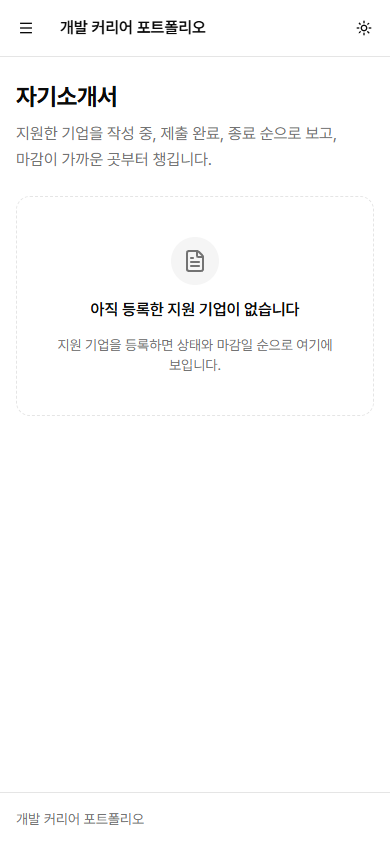
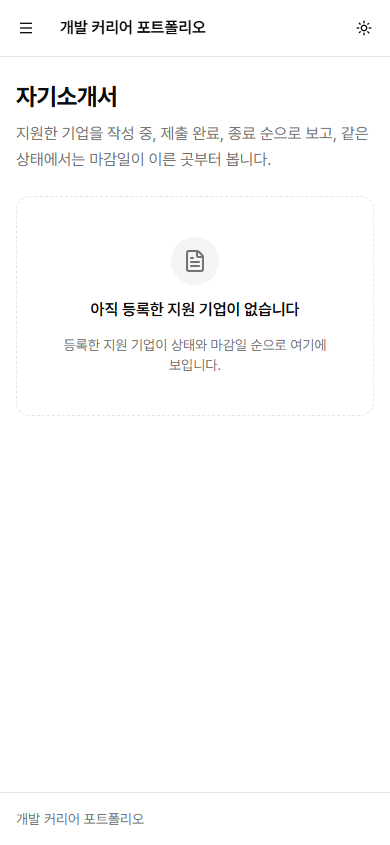
fix: 지원 기업 목록 안내 문구와 빈 줄 테스트 보강 (#48)
- 왜: 설명이 실제 순서와 다르고, 빈 목록 안내가 아직 없는 등록 기능을 가리키며, 직무 없음 테스트가 비어 있었음(1차 리뷰)
- 변경: 설명·빈 목록 문구 수정, 직무·링크·메모 없는 항목의 줄 확인, 사진 다시 찍음

Changed region(s): [[0.1538, 0.4, 0.8615, 0.4308], [0.0308, 0.1538, 0.6769, 0.2154], [0.8615, 0.1538, 0.9231, 0.1846]]

diff --git a/frontend/src/applications.tsx b/frontend/src/applications.tsx
@@ -65,7 +65,7 @@ export function ApplicationList() {
     <section aria-labelledby="page-title" aria-busy={loading} className="flex flex-col gap-6">
       <PageHeader
         title="자기소개서"
-        description="지원한 기업을 작성 중, 제출 완료, 종료 순으로 보고, 마감이 가까운 곳부터 챙깁니다."
+        description="지원한 기업을 작성 중, 제출 완료, 종료 순으로 보고, 같은 상태에서는 마감일이 이른 곳부터 봅니다."
       >
         {/* Always mounted, so screen readers hear the text change from loading to the count. */}
         <p role="status" className="sr-only">
@@ -88,7 +88,7 @@ export function ApplicationList() {
           className="break-keep"
           icon={<FileText />}
           title="아직 등록한 지원 기업이 없습니다"
-          description="지원 기업을 등록하면 상태와 마감일 순으로 여기에 보입니다."
+          description="등록한 지원 기업이 상태와 마감일 순으로 여기에 보입니다."
         />
       ) : null}
       {applications.length > 0 ? (

diff --git a/frontend/src/applications.test.tsx b/frontend/src/applications.test.tsx
@@ -110,9 +110,12 @@ test('the posting link opens in a new tab and names its company', async () => {
   expect(link).toHaveAttribute('href', 'https://careers.example.com/jobs/12');
   expect(link).toHaveAttribute('target', '_blank');
   expect(link).toHaveAttribute('rel', 'noopener noreferrer');
-  // No link stored: no link shown. No position: no empty line.
-  expect(within(item('새벽커머스')).queryByRole('link')).not.toBeInTheDocument();
-  expect(within(item('새벽커머스')).queryByRole('term')).not.toBeInTheDocument();
+  // No link, position or memo stored: only the name, the status and the deadline line are shown,
+  // with no empty line left for the missing parts.
+  const bare = item('새벽커머스');
+  expect(within(bare).queryByRole('link')).not.toBeInTheDocument();
+  expect(within(bare).queryByRole('term')).not.toBeInTheDocument();
+  expect([...bare.querySelectorAll('p')].map((line) => line.textContent)).toEqual(['마감일 없음']);
 });
 
 test('a posting link that is not a web address is never put in an href', async () => {

diff --git a/docs/changes/48-application-list.md b/docs/changes/48-application-list.md
@@ -62,3 +62,25 @@
 ## 한계
 
 등록·수정·삭제와 목록의 추가 버튼·항목 메뉴는 #49, 기업별 자기소개서 문항 화면은 #50·#51에서 만듭니다.
+
+## 1차 리뷰 반영
+
+결함은 없었습니다. 리뷰에서 확인한 것은 아래와 같습니다.
+
+- 상태 이름이 백엔드 값과 같습니다.
+- 남은 날 계산이 월말·연말·윤일에 맞고, 한국 날짜 기준으로 셉니다.
+- 공용으로 옮긴 코드가 프로젝트·자격증 화면 동작을 바꾸지 않습니다.
+- 다크 모드에서도 배지 세 종류가 구분됩니다.
+
+낮음 3건을 반영했습니다.
+
+| 지적                                                                                                     | 반영                                                                                          |
+| -------------------------------------------------------------------------------------------------------- | --------------------------------------------------------------------------------------------- |
+| 테스트 주석은 "직무가 없으면 빈 줄 없음"인데, 실제로는 메모 블록만 확인함                                | 직무·링크·메모가 없는 항목에 "마감일 없음" 한 줄만 있는지 확인하게 했습니다                   |
+| 빈 목록 안내가 "등록하면"이라 아직 없는 등록 기능을 쓰라는 말처럼 읽힘(등록은 #49)                       | "등록한 지원 기업이 상태와 마감일 순으로 여기에 보입니다"로 고쳤습니다                        |
+| 설명은 "마감이 가까운 곳부터"인데, 실제로는 마감이 지난 작성 중 항목이 맨 앞에 옴(#36에서 정한 오름차순) | 설명을 "같은 상태에서는 마감일이 이른 곳부터 봅니다"로 고쳤습니다. 순서는 #36 결정대로 둡니다 |
+
+- 바뀐 문구로 사진 5장을 다시 찍었습니다. 측정값은 처음과 같습니다(가로 넘침 없음, 최소 글자 14px).
+
+- 반영 후 `npm run check`(`career_test`): 통과. 백엔드 87건 통과·건너뜀 0건, 프론트엔드 201건 통과·2건 건너뜀, 스킬 검사 4건, 빌드 통과.
+- 첫 커밋 `8a7d95a`의 CI `verify`, `docker-build`, CodeQL은 모두 통과했습니다.
